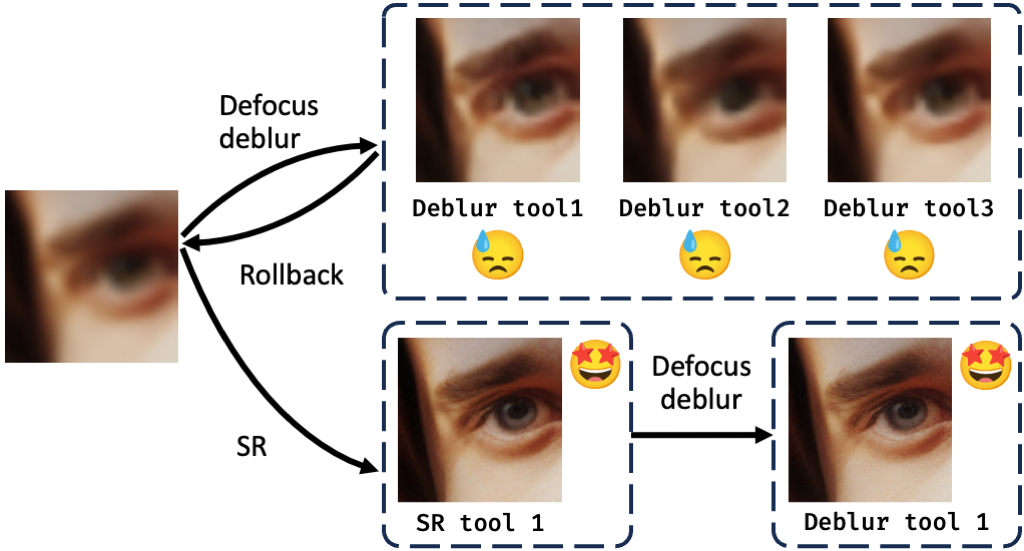
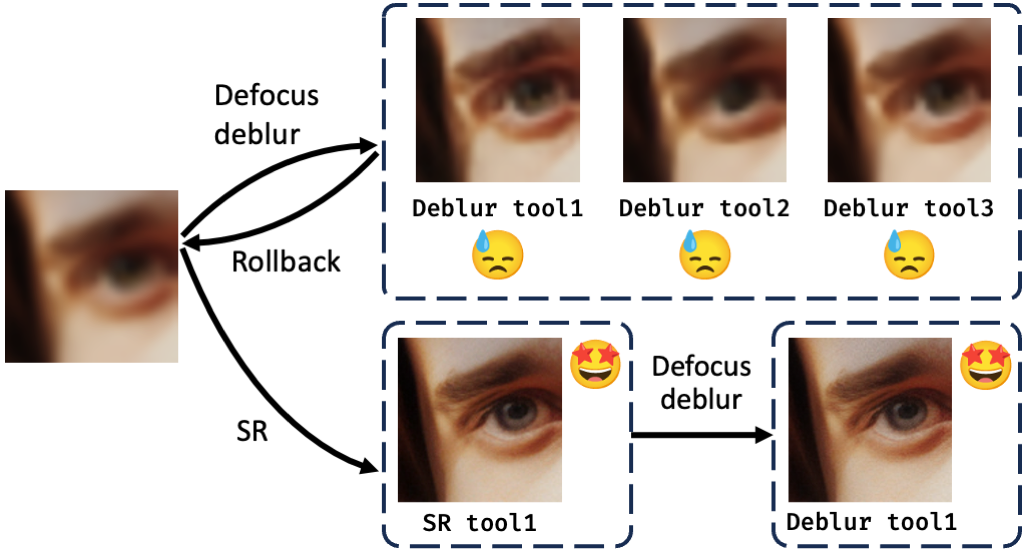
revise typo

diff --git a/index.html b/index.html
@@ -155,7 +155,7 @@
                 /
                 <a href="https://github.com/Kaiwen-Zhu/AgenticIR">code</a>
                 <p></p>
-                <p>We introduce <em>AgenticIR</em>, a LLM-based agentic system that utilize various tools for complex 
+                <p>We introduce <em>AgenticIR</em>, an LLM-based agentic system that utilize various tools for complex 
                   image restoration problems.
               </td>
             </tr>
@@ -252,7 +252,7 @@
                 /
                 <a href="https://github.com/XPixelGroup/DepictQA">code</a>
                 <p></p>
-                <p>We introduce <em>DepictQA</em>, leveraging Multi-modal Large Language Models, allowing for detailed,
+                <p>We introduce <em>DepictQA</em>, leveraging multi-modal large language models, allowing for detailed,
                   language-based, and human-like evaluation of image quality.
                 </p>
               </td>
